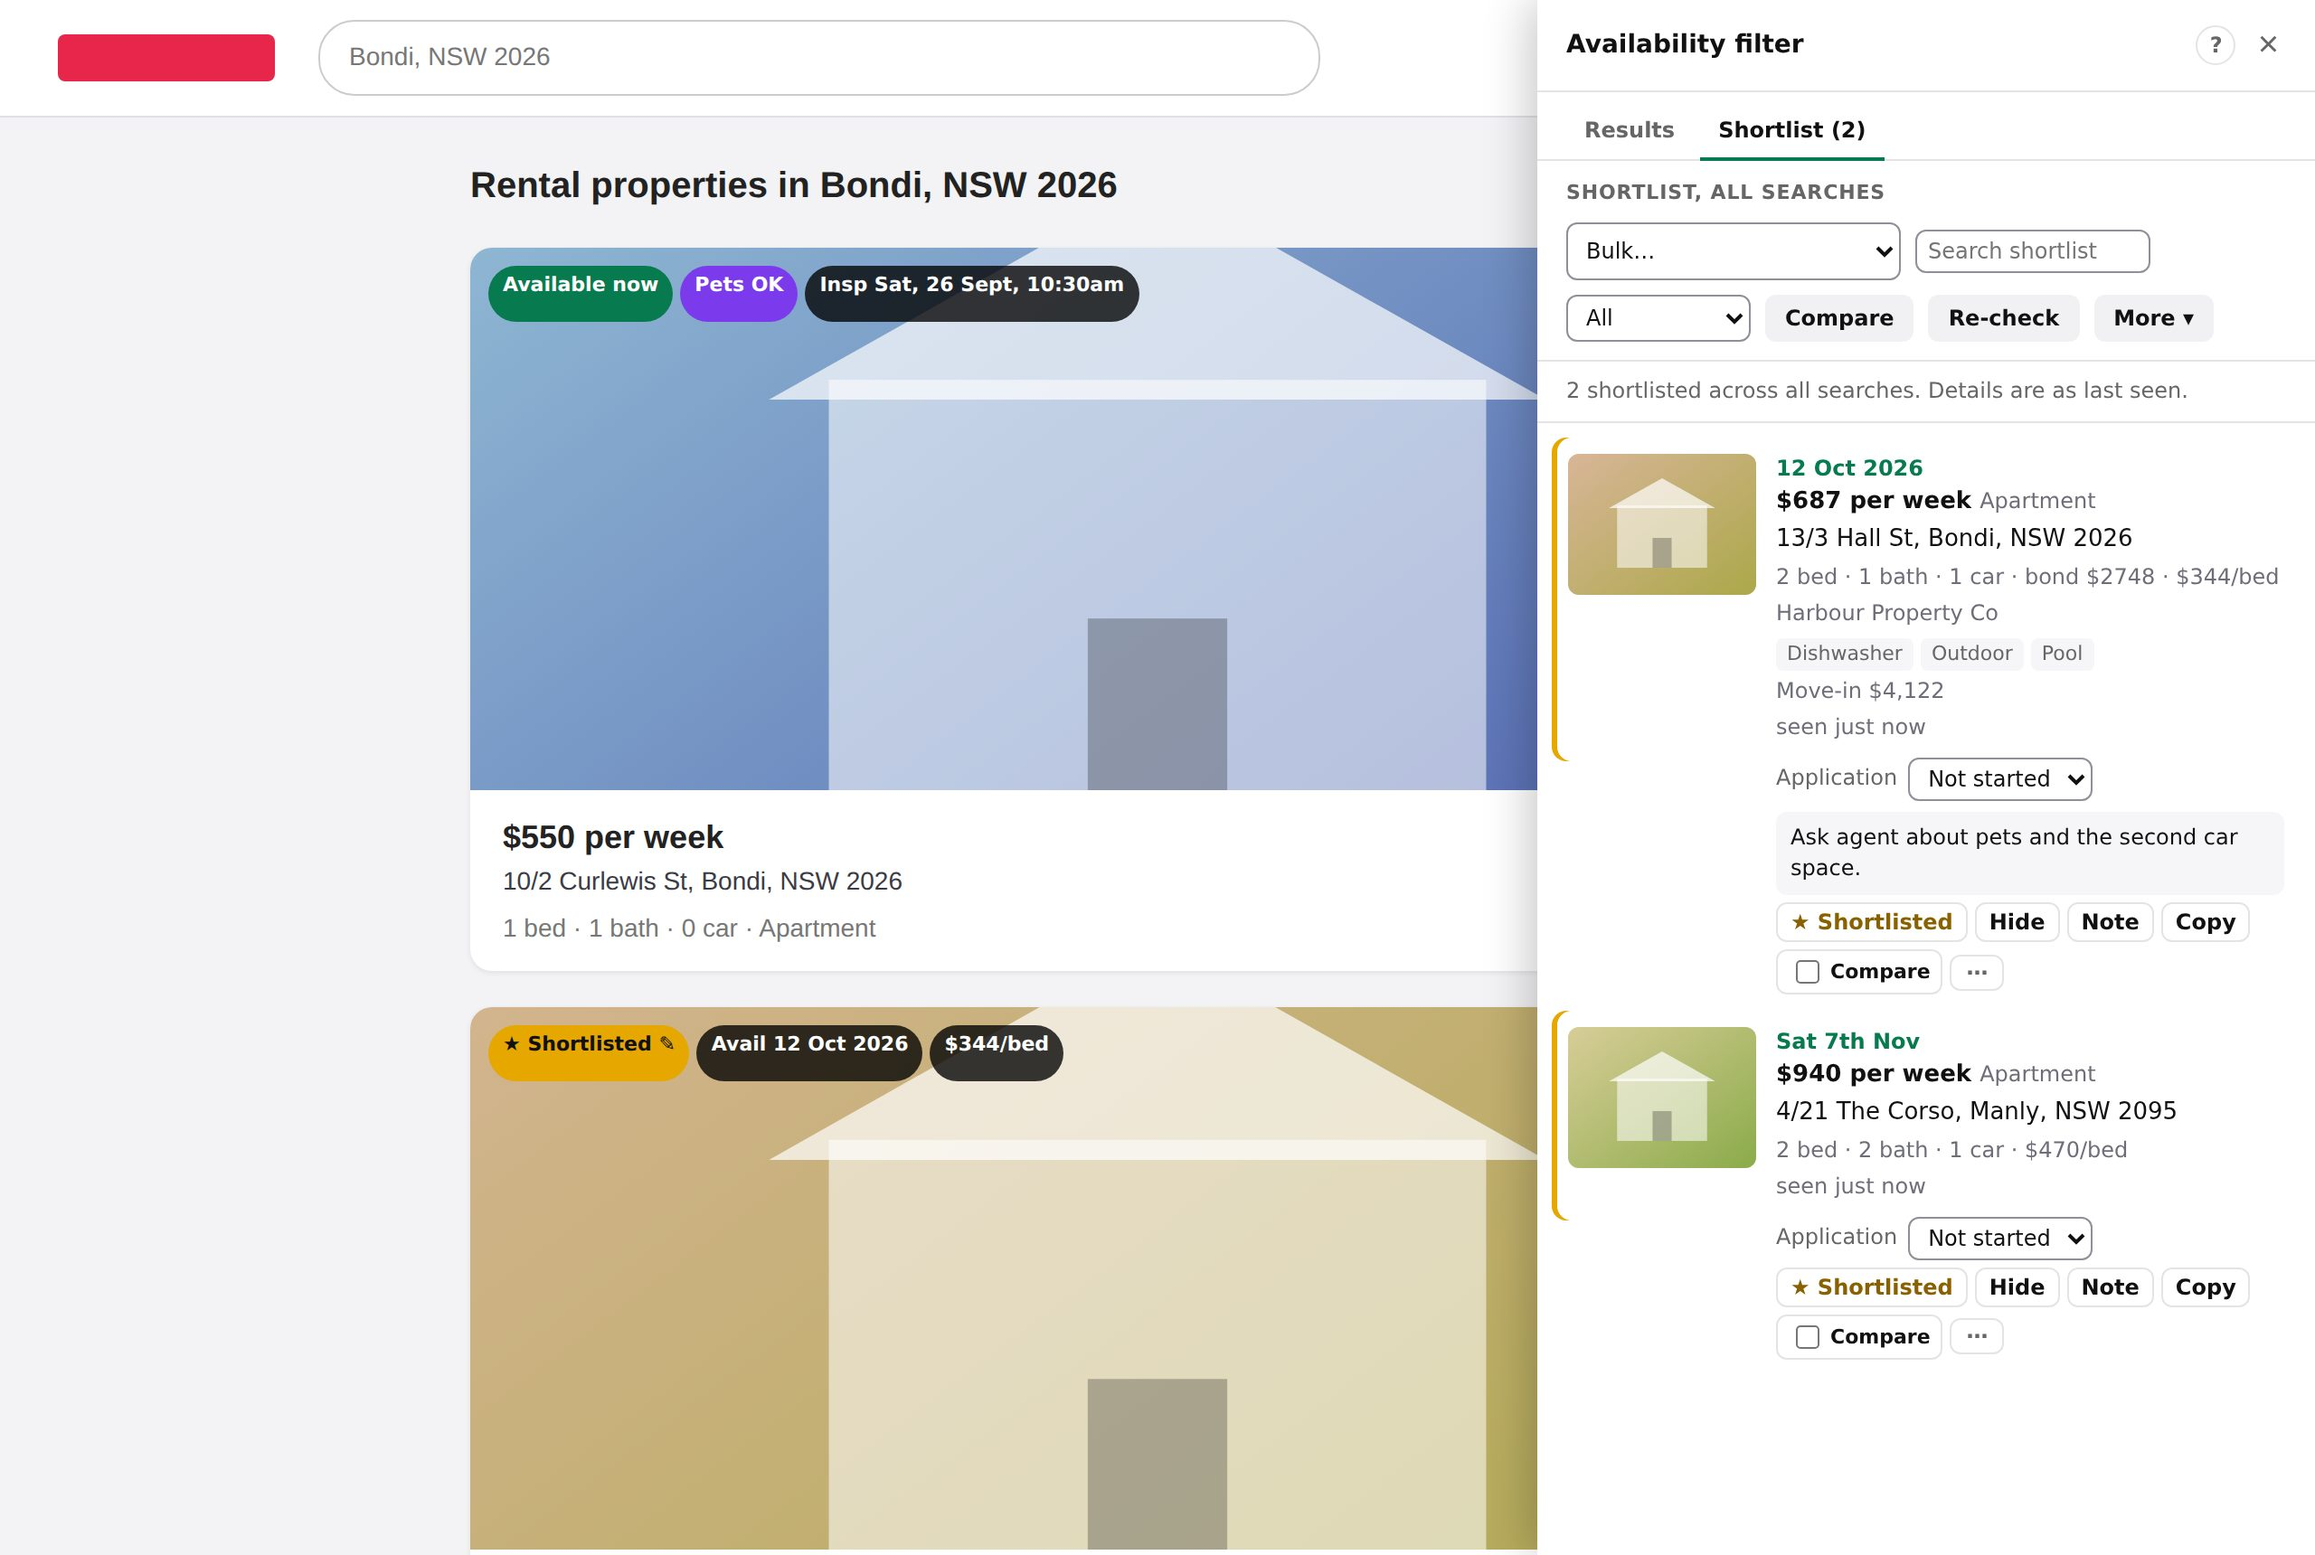
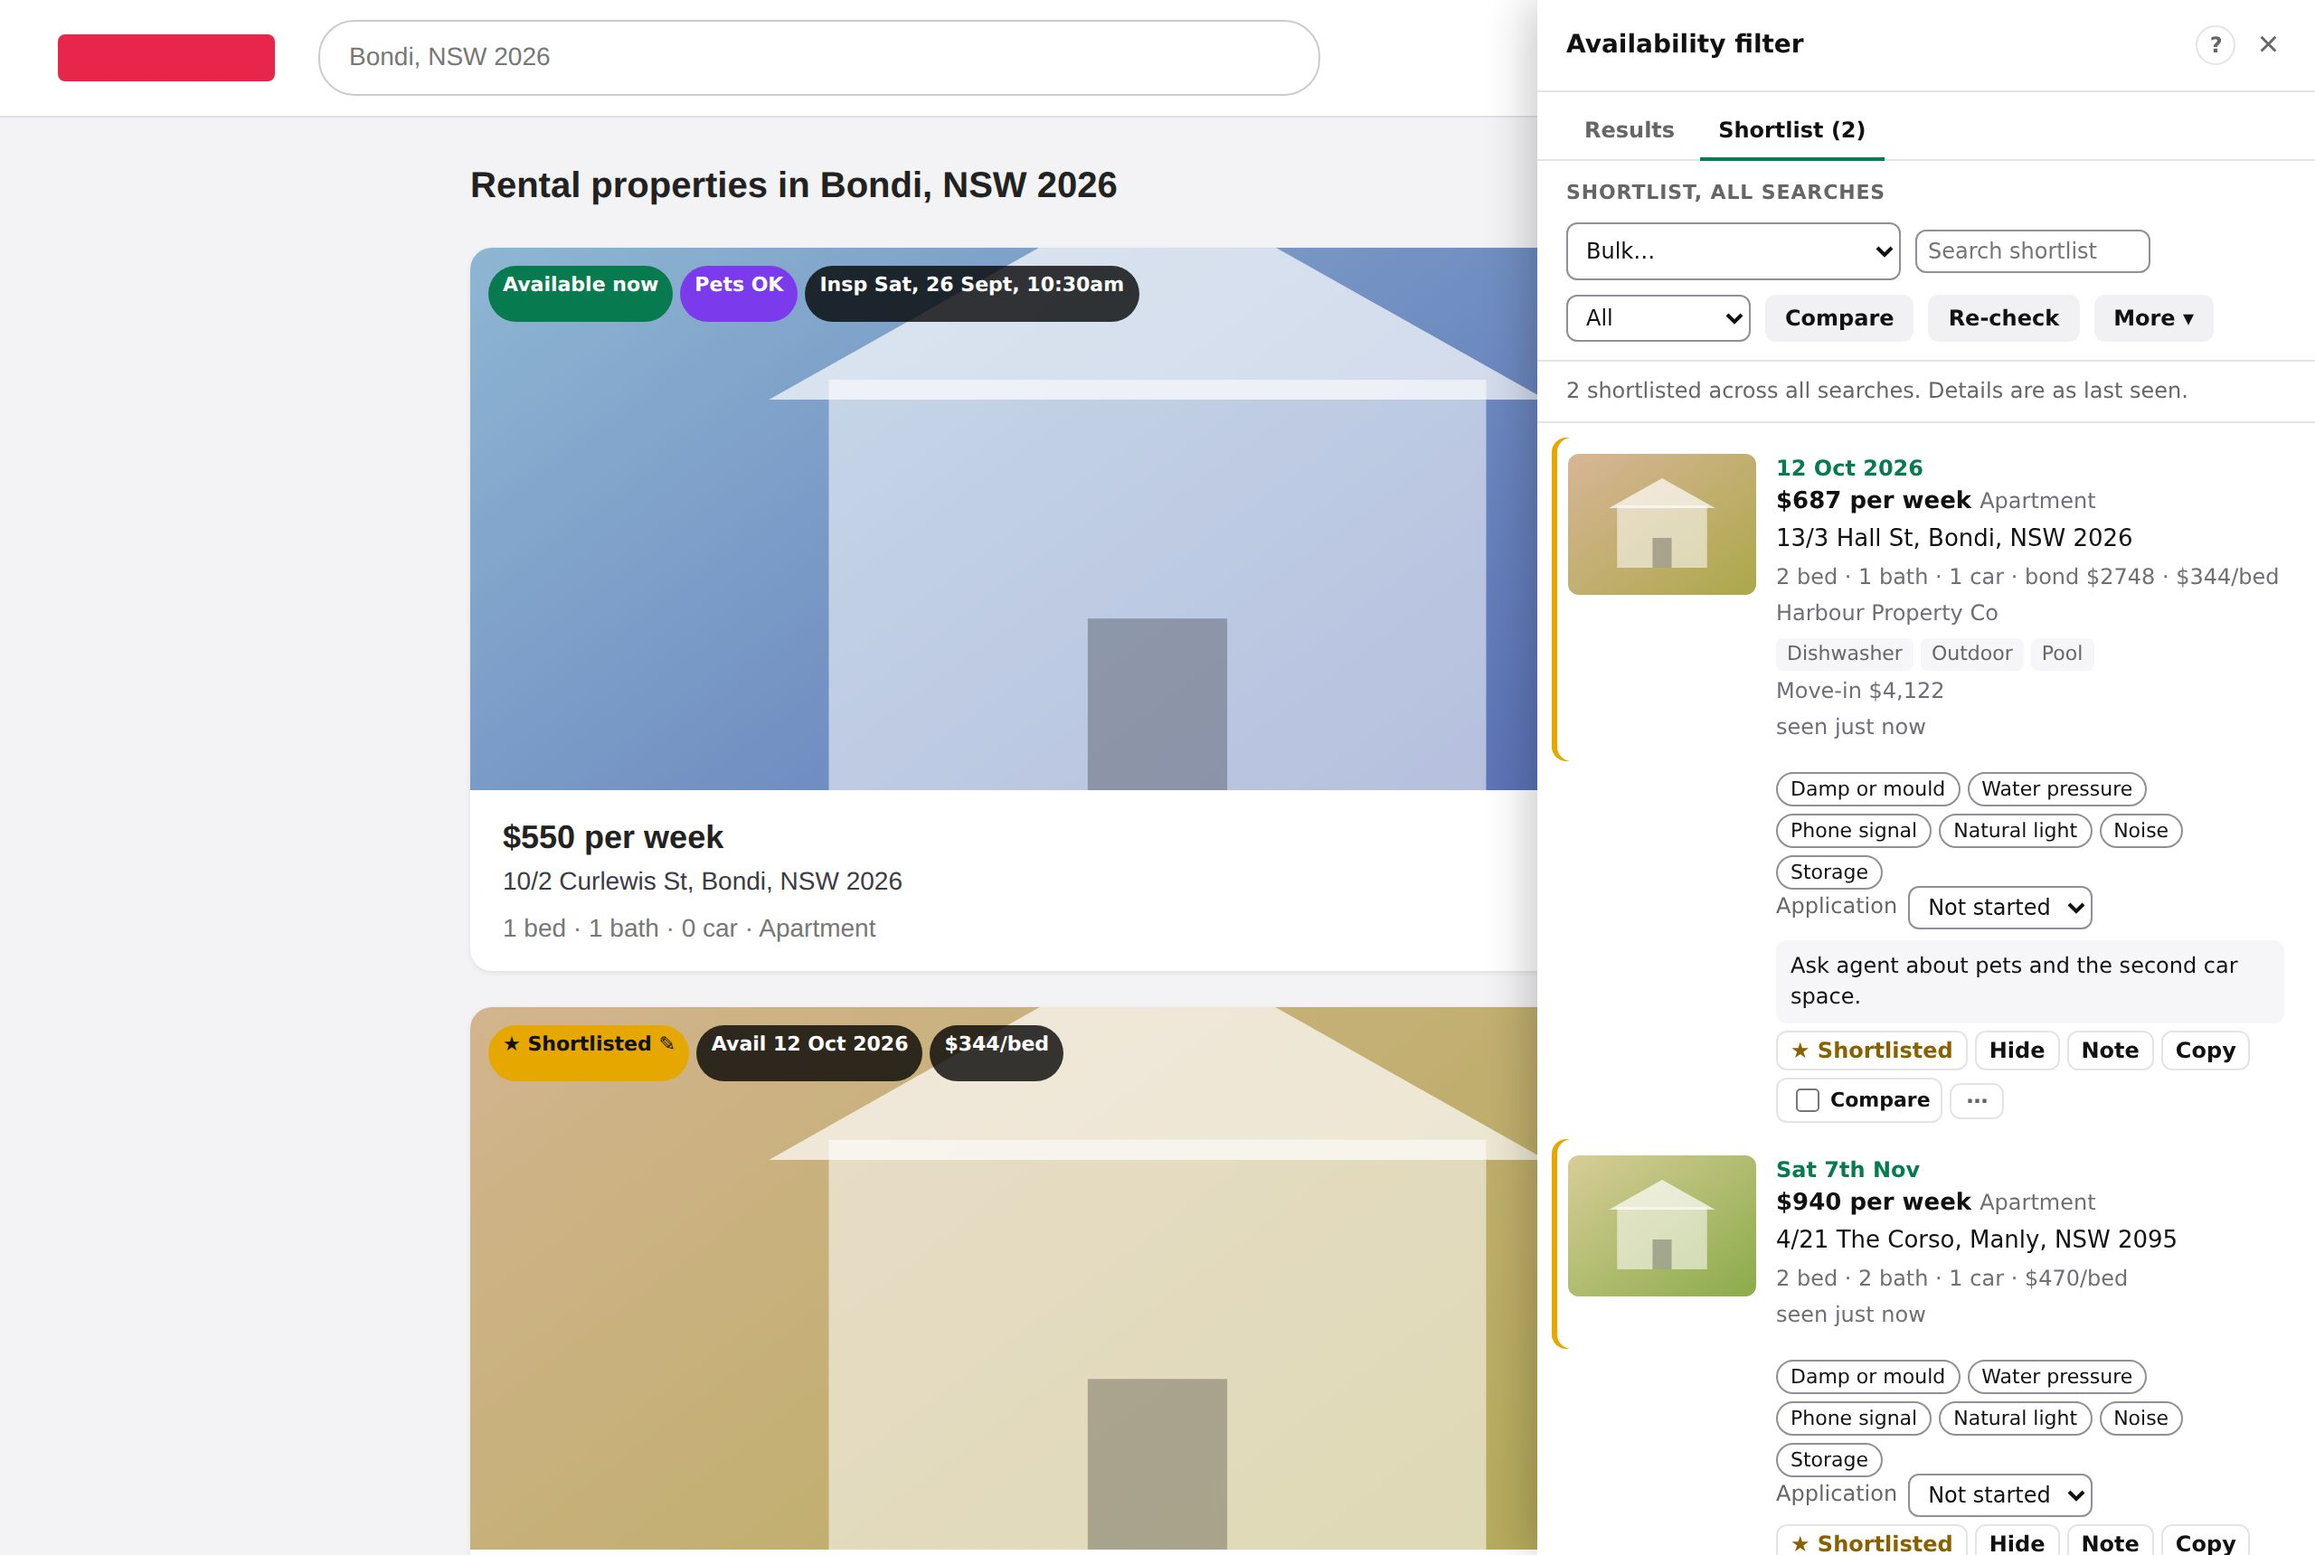
Bump 2.15.0; changelog, readme, screenshots

Changed region(s): [[0.6562, 0.493, 0.9688, 1.0]]

diff --git a/rea-availability-filter.user.js b/rea-availability-filter.user.js
@@ -1,7 +1,7 @@
 // ==UserScript==
 // @name         REA Availability Filter
 // @namespace    https://github.com/cpwillis/rea-enhancement
-// @version      2.14.0
+// @version      2.15.0
 // @description  Availability-date filtering and sorting, extra filters, cross-page merging, on-card availability badges and CSV/TSV export for realestate.com.au rental searches.
 // @author       cpwillis
 // @homepageURL  https://github.com/cpwillis/rea-enhancement

diff --git a/README.md b/README.md
@@ -23,9 +23,10 @@ Updates are automatic: Tampermonkey checks `@updateURL` (the file on `main`) and
 - Weekly rent min/max (monthly and annual rents converted to weekly), max move-in cost, min beds/baths/cars, property type, photo required, inspection on a given day, listed over 3 weeks ago.
 - Keywords over headline, description, address and features: `pool -studio "north facing"`.
 - **Amenities**: pets, furnished, air con, dishwasher, own laundry, outdoor space, built-in robes, pool, study, ensuite, heating, gas cooking, lift, secure parking. Click a chip to require it, again to exclude it. Read from REA's feature list and the description ("no pets" counts as no); unknown never counts as yes.
+- **Other places**: up to 3 named points (work, school, partner) with km to each and a "Nearest to all places" sort.
 - **Distance** from any point: paste coordinates or a Google Maps link (right-click a spot, copy the numbers). Shows km on every listing, filters by max km, sorts nearest first. Straight-line distance, no lookups.
 - **Hide an agency** you've ruled out (undo, or unhide later); photo count and "Has a floorplan" filter.
-- Sort by available date, price, price per bed, best value vs median, **best match**, nearest, most beds, next inspection, newest first. Best match is a 0-100 score from rent vs your budget (or the median), timing vs your "from" date, distance and move-in cost; hover it to see the parts.
+- Sort by available date, price, price per bed, best value vs median, **best match**, nearest, most beds, next inspection, newest first. Best match is a 0-100 score from rent vs your budget (or the median), timing vs your "from" date, distance and move-in cost, weighted as you choose in Settings; hover it to see the parts.
 - **Move-in cost** (bond + 2 weeks' rent) on every listing; bonds above 4 weeks' rent are flagged.
 - **Rent vs median** for the same bed count in your results (eg "12% below median 2-bed").
 - **Market view**: rent spread per bed count and a week-by-week availability chart for what you're looking at; click a week to filter to it.
@@ -48,6 +49,7 @@ Updates are automatic: Tampermonkey checks `@updateURL` (the file on `main`) and
 - Star a listing to shortlist it, or hide one you've ruled out. Both persist in your browser.
 - The **Shortlist** tab collects starred listings from every search you've run, with a private note and an **application status** (to inspect, inspected, applied, approved, declined) per listing; search it, filter by status and export it.
 - **Compare** up to 6 shortlisted listings side by side, best value per row highlighted.
+- **Inspection checklist** per shortlisted listing (damp, water pressure, signal, light, noise, storage, or your own), shown in Compare and on the printout.
 - **Plan an inspection day**: shortlisted inspections in order with clashes and tight travel gaps flagged, exportable to your calendar.
 - **Re-check** shortlisted listings to refresh price, availability and inspections from their pages, and spot ones taken down.
 - **Share** the shortlist as a link (data stays in the link, nothing goes to a server) or **Print** it for open homes.

diff --git a/CHANGELOG.md b/CHANGELOG.md
@@ -2,6 +2,12 @@
 
 Versions match the userscript's `@version`; installs auto-update from `main` when it increases.
 
+## 2.15.0
+
+- **Other places**: add up to 3 named points ("Work: -33.87, 151.21", or a Google Maps link) under More filters. Each listing shows the straight-line km to each; new sort **Nearest to all places** (shortest longest trip); Best match's distance uses the furthest place; Compare adds a Places row.
+- **Best match weights** in Settings: Rent, Timing, Distance and Move-in each Ignore / Less / Normal / More; the score's tooltip shows the weighting.
+- **Inspection checklist** on shortlisted listings: tap items (damp or mould, water pressure, phone signal, natural light, noise, storage, or your own list in Settings) to mark ✓ / ✗. Shown in Compare, printed with the shortlist and kept in backups.
+
 ## 2.14.0
 
 - **Opened tracking**: listings you've opened (from the drawer, REA's cards or the listing page) show "opened 2d ago"; new filter **Not opened yet**.
